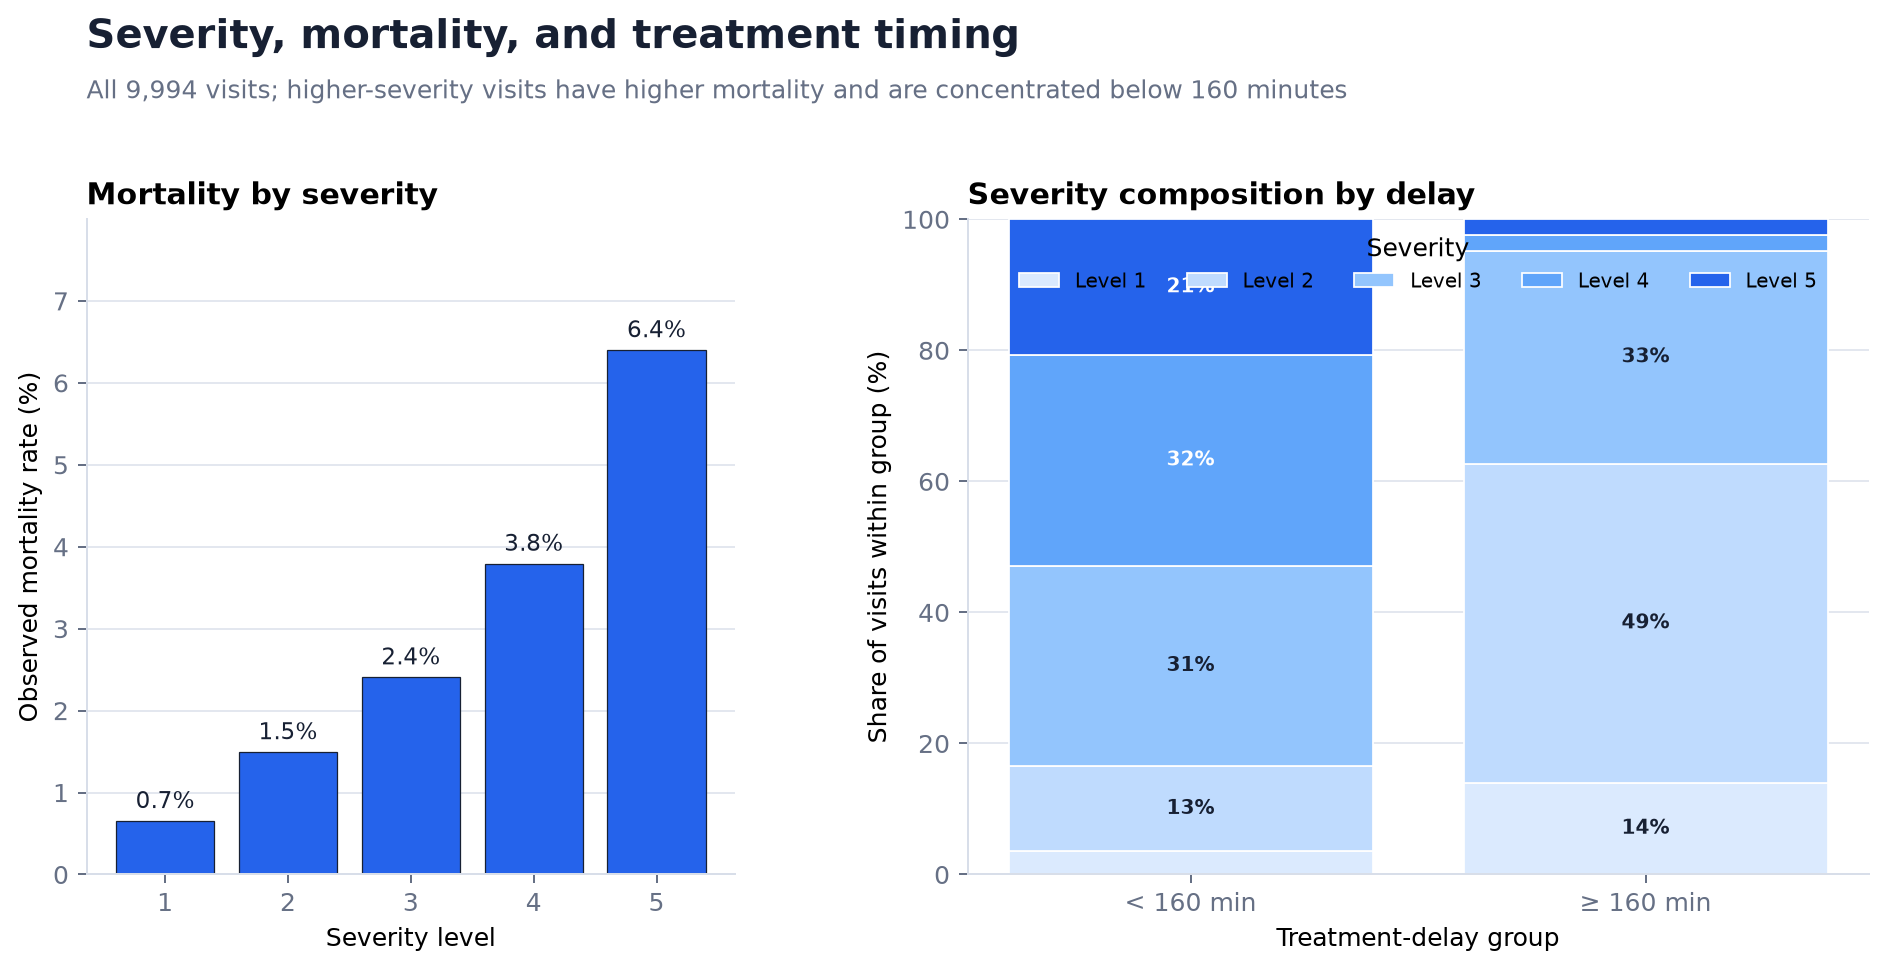
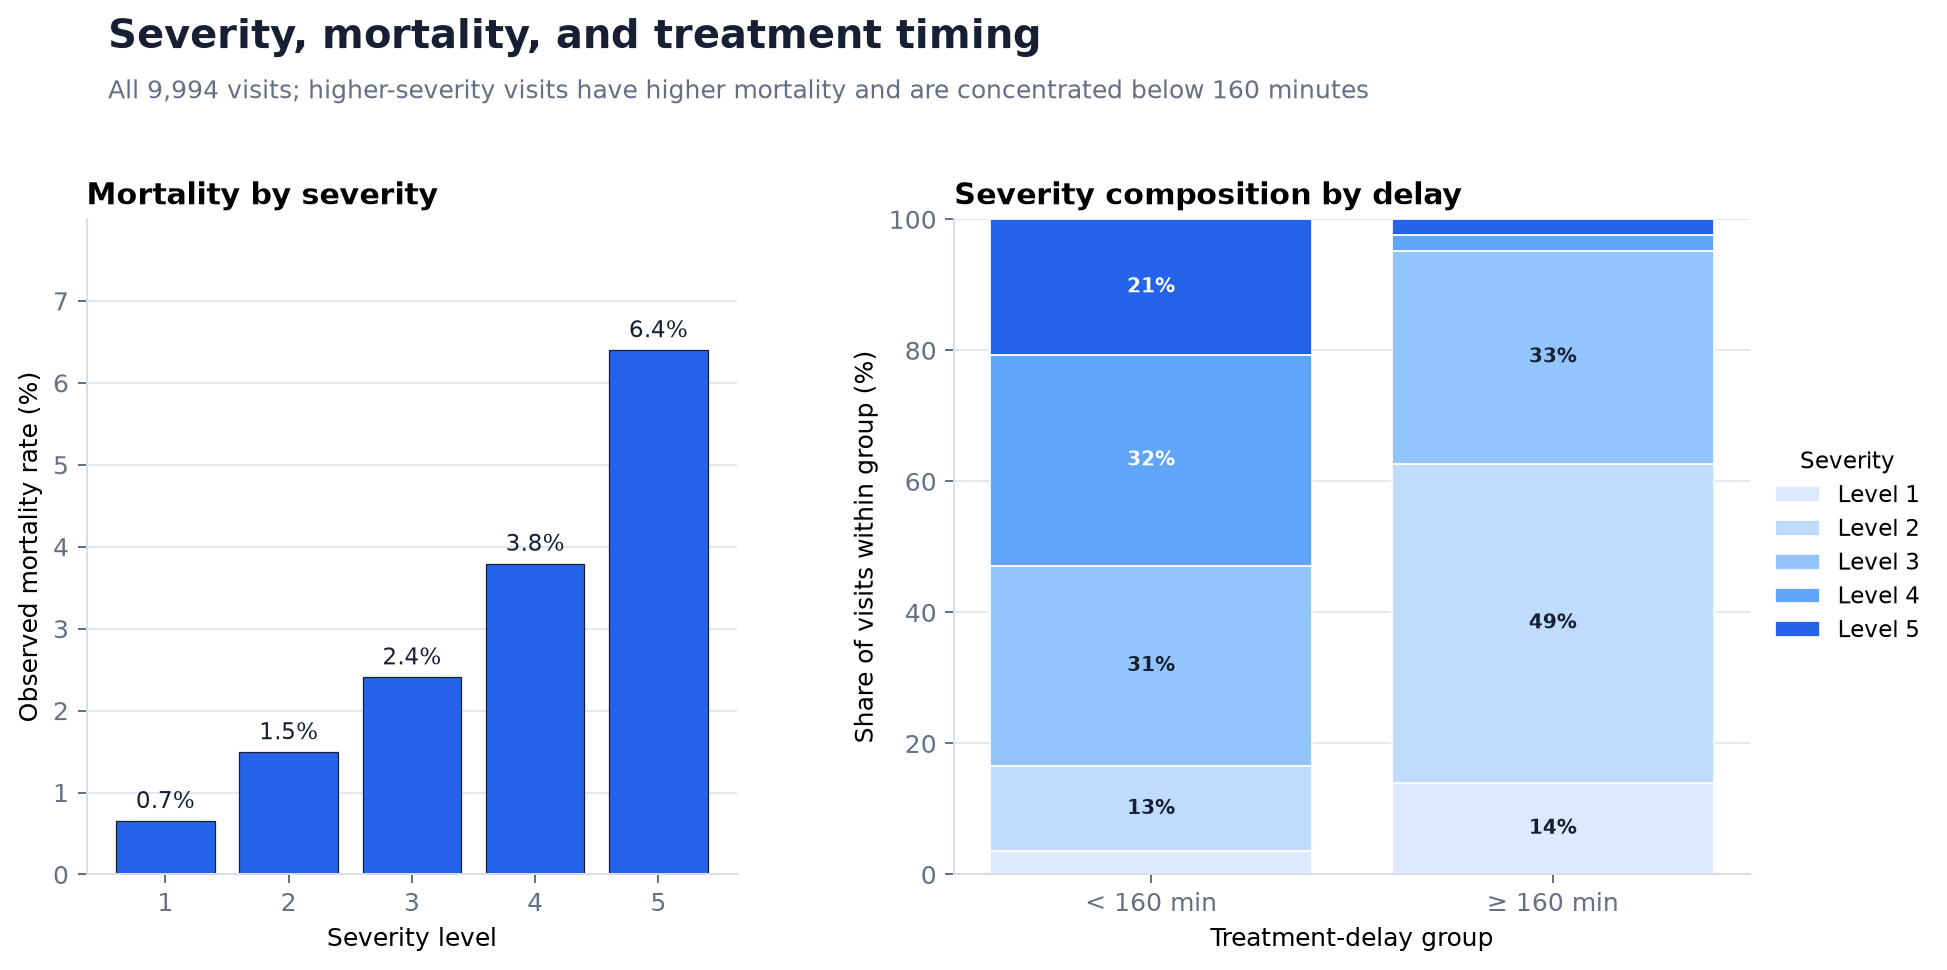
Fix severity chart legend overlap
Move the legend into a dedicated margin and regenerate the chart so every segment label remains visible.

diff --git a/analysis.py b/analysis.py
@@ -438,7 +438,7 @@ def plot_severity_mechanism(data: pd.DataFrame, threshold: int, output_path: Pat
     severity_mix = severity_mix.div(severity_mix.sum(axis=1), axis=0).mul(100)
 
     severity_colors = ["#DBEAFE", "#BFDBFE", "#93C5FD", "#60A5FA", "#2563EB"]
-    figure, axes = plt.subplots(1, 2, figsize=(11, 5.6), gridspec_kw={"width_ratios": [0.9, 1.25]})
+    figure, axes = plt.subplots(1, 2, figsize=(12, 5.6), gridspec_kw={"width_ratios": [0.9, 1.10]})
 
     bars = axes[0].bar(
         np.arange(len(severity_order)),
@@ -494,7 +494,16 @@ def plot_severity_mechanism(data: pd.DataFrame, threshold: int, output_path: Pat
     axes[1].set_ylabel("Share of visits within group (%)")
     axes[1].set_ylim(0, 100)
     axes[1].set_title("Severity composition by delay", loc="left", fontsize=12, fontweight="bold")
-    axes[1].legend(title="Severity", ncol=5, frameon=False, loc="upper center", bbox_to_anchor=(0.5, 1.00), fontsize=8)
+    axes[1].legend(
+        title="Severity",
+        ncol=1,
+        frameon=False,
+        loc="center left",
+        bbox_to_anchor=(1.02, 0.5),
+        fontsize=9,
+        title_fontsize=9,
+        borderaxespad=0,
+    )
     style_axis(axes[1])
     axes[1].grid(axis="x", visible=False)
 
@@ -503,7 +512,7 @@ def plot_severity_mechanism(data: pd.DataFrame, threshold: int, output_path: Pat
         "Severity, mortality, and treatment timing",
         f"All {len(frame):,} visits; higher-severity visits have higher mortality and are concentrated below {threshold} minutes",
     )
-    figure.subplots_adjust(top=0.78, left=0.08, right=0.98, bottom=0.13, wspace=0.30)
+    figure.subplots_adjust(top=0.78, left=0.07, right=0.84, bottom=0.13, wspace=0.30)
     figure.savefig(output_path, dpi=180, bbox_inches="tight", facecolor="white")
     plt.close(figure)
 
